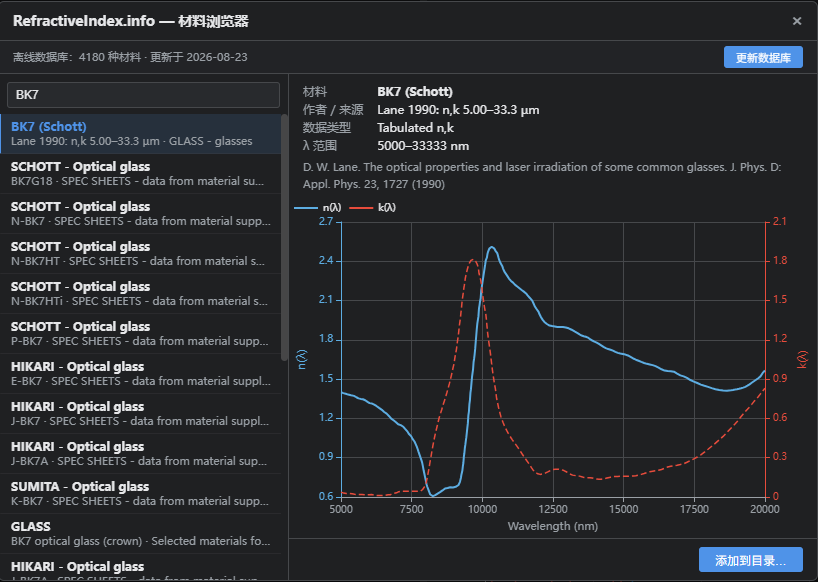
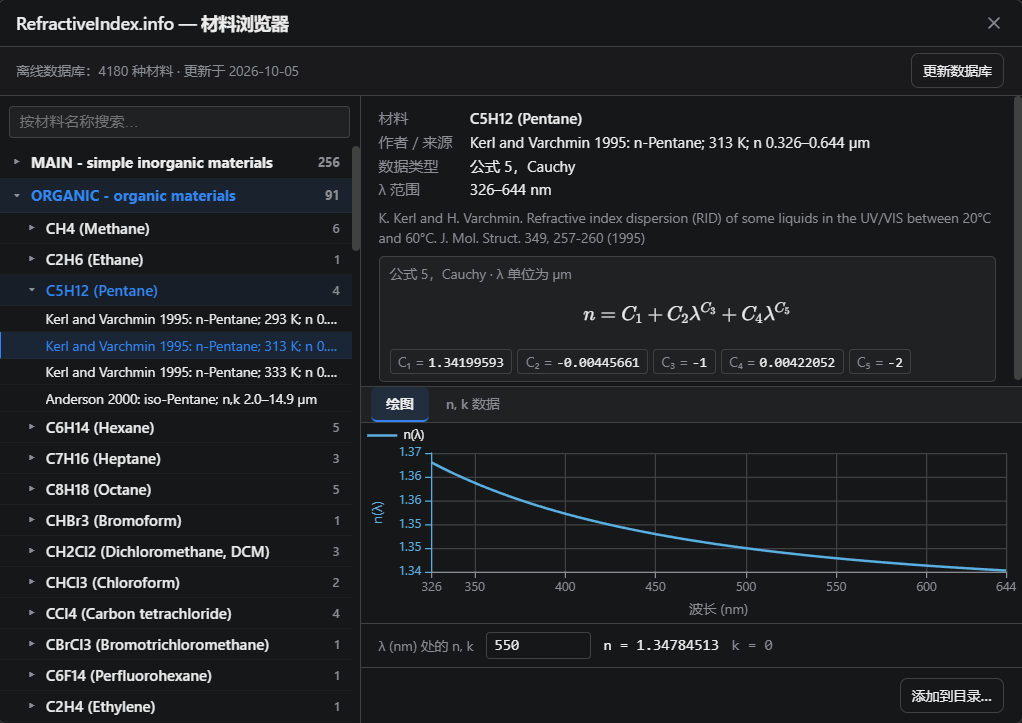
bump version, update readme

diff --git a/README.md b/README.md
@@ -10,7 +10,7 @@
 **An open-source design, analysis, and optimization environment for optical thin-film coatings.**
 
 [![License: MIT](https://img.shields.io/badge/License-MIT-blue.svg)](./LICENSE)
-![Version](https://img.shields.io/badge/version-1.8.4-informational)
+![Version](https://img.shields.io/badge/version-1.8.5-informational)
 [![Downloads](https://img.shields.io/github/downloads/aai2k/TFStudio/total?label=downloads&color=informational)](../../releases)
 ![Platform](https://img.shields.io/badge/platform-Windows%20%7C%20Linux-2ea44f)
 [![Maintainability](https://qlty.sh/gh/aai2k/projects/TFStudio/maintainability.svg)](https://qlty.sh/gh/aai2k/projects/TFStudio)
@@ -39,41 +39,61 @@ TFStudio is a desktop application for designing and analyzing **optical thin-fil
 **Design & evaluation**
 - Transfer-matrix method (TMM) for **absorbing and dispersive** media at **oblique incidence**, both **s- and p-polarization**
 - Full-system modeling: front coating, substrate (with absorption), and back coating, including incoherent substrate multiple reflections
-- Reflectance / transmittance / absorptance spectra, color, integral figures of merit
+- Design the front coating, the back coating or both at once, the back optionally held as the mirror of the front; every window evaluates one side alone or the whole part
+- Averaging over a convergent or divergent illumination cone, with a uniform, Lambertian or tabulated intensity
+- Reflectance / transmittance / absorptance spectra in percent, decibels or optical density, color, integral figures of merit
 - Layer editor with simultaneous physical / optical / quarter-wave / full-wave thickness representations
+- **Stack formula:** build a whole stack from a formula such as `Air | (HL)^4 H | Glass`
+- **Specification:** design requirements as live pass/fail checks, turned into merit-function rows with one button and used as the pass criterion of a Monte Carlo yield run
+- **Coating library:** coatings kept as reusable stacks with their substrate, medium, band and angle, a built-in shelf of starting designs beside your own, placed on either side of a design
 
 **Optimization & synthesis**
-- **Damped least-squares / Levenberg-Marquardt** refinement with an **analytic Jacobian**
-- Additional refiners: Newton, Newton-CG, SQP, conjugate-gradient, differential evolution, simulated annealing
+- Refinement methods: SQP with bounds, damped least squares (Levenberg-Marquardt), conjugate gradient, Newton, Newton-CG, multi-start DLS, differential evolution and simulated annealing, or all of them in turn keeping the best; the gradient methods use an **analytic Jacobian**
 - **Needle** optimization and **gradual evolution** synthesis (automatic layer insertion from scratch)
 - Structural optimization over the layer count itself
+- **Filter design wizard:** multi-cavity Fabry-Perot bandpass and notch prototypes (DWDM, LWDM) built in a few guided steps, at normal or oblique incidence
 - Flexible merit function: spectral targets, ramps, band averages, worst-case operands, thickness constraints
 - Fitting to an imported measured spectrum, as one more row in the merit function
+- **Variator:** sliders on each layer's thickness and on the substrate that every open window follows, and on each material's n and k
+- **Design cleaner:** merges adjacent layers of one material and removes very thin ones, then refines again if asked
 - Multi-threaded via a Web Worker pool; hot kernels accelerated with **WebAssembly**
-<img width="2002" height="1310" alt="ge" src="https://github.com/user-attachments/assets/009e2e48-f11b-4aba-8e6c-3d4e53705b08" />
 
+![A broadband AR target set in the merit function wizard, then Gradual Evolution building an 8-layer coating from a bare substrate](assets/gradual-evolution-bbar.gif)
+
+![A 50 % transmittance target drawn on the plot, then Refinement bringing an 8-layer stack onto it](assets/draw-target-refine.gif)
 
 **Analysis windows**
-- Optical evaluation, admittance diagrams, electric-field profiles, group delay / GDD, ellipsometric parameters, color evaluation, refractive-index profile, layer thickness diagram
+- Optical evaluation, wavelength vs angle maps, admittance diagrams, electric-field profiles, group delay / GDD, dispersion through a bulk material, ellipsometric parameters, color evaluation, refractive-index profile, layer thickness diagram
+- **Plot engine:** custom multi-curve plots, or any quantity mapped over two swept variables as a heatmap or 3D surface
+- **Pulse analysis:** a Gaussian, sech² or super-Gaussian pulse, or a measured spectrum with its phase, reflected off or sent through the coating for any number of bounces, drawn against the Fourier-limited pulse of the same spectrum, with output duration, peak, delay and residual GDD
 - Tolerance & manufacturing analysis: Monte Carlo error analysis, layer sensitivity, inhomogeneity, roughness/scattering, systematic deviations
-<img width="2002" height="1312" alt="analysiswindows" src="https://github.com/user-attachments/assets/ce082aa3-4f18-4908-9247-5d65083db5f4" />
+- **Stress:** per-film stress with its thermal part, the bow it leaves in the substrate, and how close the stack is to cracking or delaminating, from mechanical constants kept on each material; an `STR` merit operand balances the film force for a flat part
+
+![A quarter-wave mirror typed into Stack Formula, then its reflectance over wavelength and angle of incidence as a 3D surface](assets/mirror-angle-map.gif)
 
 **Materials**
-- Built-in library generated from the [refractiveindex.info](https://refractiveindex.info) database (CC0)
-- Sellmeier / Cauchy / tabulated dispersion; complex index with explicit conventions
-- Import of external catalogs and an in-app refractiveindex.info browser
+- Built-in library: Sellmeier glasses written out from their papers and the Schott datasheet, and tabulated films and metals generated from the [refractiveindex.info](https://refractiveindex.info) database (CC0)
+- Dispersion: the Zemax formulas, general Sellmeier and Cauchy, the OptiLayer Schott, Hartmann and Drude forms, the refractiveindex.info formulas, and tabulated n,k; complex index with explicit conventions
+- Import of material catalogs from Zemax AGF, TFCalc, Essential Macleod and OptiLayer files, and an in-app refractiveindex.info browser
+- Ships with the Schott glass catalog, coating and substrate material catalogs, and an offline copy of the refractiveindex.info database, so the browser works without a connection
 
- <img width="1225" height="866" alt="image" src="https://github.com/user-attachments/assets/6fc88e64-7a06-44a3-95bd-352d4c4716ed" />
+![RefractiveIndex.info material browser](assets/screenshot-material.png)
 
 **Measured data**
 - Import of measured R / T / A spectra and of ellipsometric Ψ and Δ, drawn over the calculated curves
+- Reads delimited text in any common layout (PerkinElmer, Shimadzu, Cary and Filmetrics exports among them), JCAMP-DX, and Woollam and Accurion ellipsometer exports
+- **Curve editor:** type, paste or correct a curve's points before it is applied
 - **n,k characterization:** derive a film's index, extinction and thickness from a measured transmittance and reflectance, or from a Ψ and Δ pair, and save the result as a material
+- Fitting a design to a measured Ψ and Δ: the curve becomes merit-function targets for refinement
 - Export of measured or calculated curves in nm, µm or wavenumber, as a fraction or a percentage
 
 **Manufacturing**
 - Deposition / monitoring simulation (broadband and monochromatic optical monitoring)
 - Monitoring worksheet: per-layer monitoring wavelength and witness-chip assignment, with the layers that cannot be terminated closely enough flagged before the run
-- Process exporter and optical-coating data interchange (including Zemax OpticStudio coating export/import)
+- Process exporter
+- Coating exchange with lens design software, both ways: Zemax OpticStudio `COATING.DAT` and CODE V MULTILAYER `.seq` / `.mul`
+- Design import from TFCalc (`.tfd`), Essential Macleod (`.dds`) and OptiLayer (`.dsg`), with materials matched to your catalogs
+- **Report:** a document built from blocks over one or several designs, saved as PDF or a single HTML file
 
 **Platform**
 - Cross-platform desktop app (Electron + React, pure JavaScript)
@@ -89,17 +109,19 @@ Methods and their sources:
 - **Transfer-matrix method:** H. A. Macleod, *Thin-Film Optical Filters*, 5th ed.
 - **Numerical needle synthesis:** Sullivan & Dobrowolski, *Appl. Opt.* **35**, 5484 (1996); Tikhonravov et al., *Appl. Opt.* **35**, 5493 (1996)
 - **Gradual evolution:** Tikhonravov et al. (2007)
+- **Dispersion and pulse propagation:** Birge & Kärtner, *Appl. Opt.* **45**, 1478 (2006)
+- **Film stress, substrate bow and failure criteria:** Klokholm, *IBM J. Res. Dev.* **31**, 585 (1987); Suhir, *J. Appl. Phys.* **88**, 2363 (2000); Klein, *J. Appl. Phys.* **88**, 5487 (2000) and *Opt. Eng.* **40**, 1115 (2001)
 
 All computations are double precision.
 
-The transfer-matrix engine is published separately as **[tmmcore](https://github.com/aai2k/tmmcore)**. Its [comparison page](https://aai2k.github.io/tmmcore/comparison/) measures it against `tmm` (Byrnes), `tmm_fast`, `tmmax` and `tmm_faster` on accuracy and speed, and states the method and its caveats. Reference outputs are committed, so `npm run compare` reproduces the accuracy table with Node alone and no Python.
+The transfer-matrix engine is published separately as **[tmmcore](https://github.com/aai2k/tmmcore)**. Its [comparison page](https://aai2k.github.io/tmmcore/comparison/) measures it against `tmm` (Byrnes), `tmm_fast`, `tmmax` and `tmm_faster` on accuracy and speed, and states the method and its caveats. Reference outputs are committed to that repository, so `npm run compare` there reproduces the accuracy table with Node alone and no Python.
 
 ## Installation
 
 ### Download (recommended)
 Grab the latest build for your platform from the [**Releases**](../../releases) page.
 
-**Windows:** `TFStudio Setup <ver>.exe` installs normally; `TFStudio-<ver>-Portable.exe` is a single executable that needs no installation, for locked-down deposition PCs. Separate Windows 7/8.1 builds are published alongside.
+**Windows:** `TFStudio.Setup.<ver>.exe` installs normally; `TFStudio-<ver>-Portable.exe` is a single executable that needs no installation, for locked-down deposition PCs. Separate Windows 7/8.1 builds are published alongside.
 
 
 **Linux:** On Debian and Ubuntu, `TFStudio-<ver>-amd64.deb` is the recommended package:
@@ -123,7 +145,7 @@ The AppImage does not need `libfuse2`. Where it cannot mount itself at all, as i
 Want to try it first? Run the **[live web demo](https://tfstudio.xyz/demo/)** for example designs and live spectra in the browser, with no installation required.
 
 ### Build from source
-Requires [Node.js](https://nodejs.org) 18+ and git.
+Requires [Node.js](https://nodejs.org) 22.12+ and git.
 
 ```bash
 git clone https://github.com/aai2k/TFStudio.git
@@ -144,8 +166,7 @@ Other useful scripts:
 
 ```bash
 npm test              # run the test suite
-npm run docs:install  # install docs-site deps (needed before docs:dev)
-npm run docs:dev      # preview the documentation site
+npm run docs:dev      # preview the documentation site (installs its deps on first run)
 npm run build         # package a distributable (electron-builder)
 ```
 
@@ -163,7 +184,7 @@ npm run dist -- -Linux        # Linux .deb + AppImage only
 
 The Linux artifacts are produced by `build-release-linux.sh`, which the release
 script drives through WSL; it also runs on any Linux host directly. It needs a
-distribution with Node.js 18+ and `rsync`, and builds in the Linux filesystem
+distribution with Node.js 22.12+ and `rsync`, and builds in the Linux filesystem
 rather than in place, so a Windows checkout keeps its Windows `node_modules`.
 The Windows-driven WSL build skips GUI verification. A direct Linux build launches
 the unpacked application under Xvfb as a smoke test, or skips it with a message if

diff --git a/ROADMAP.md b/ROADMAP.md
@@ -8,12 +8,11 @@ If something here matters to your work, or something you need is missing, open a
 
 ## Next
 
-- **Pulse Analysis.** Propagate Gaussian, sech-squared or measured pulses through a coating and show temporal broadening, spectral phase and residual chirp.
-
+a non-polarizing edge filter tool (give the edge wavelength, the angle and two materials, get a stack whose s and p edges coincide), evaluating a system built from several coated parts, rugate and graded-index synthesis, laser damage threshold estimation, and glazing U and g values
 
 ## After that
 
-rugate and graded-index synthesis, laser damage threshold estimation, optimizing across multiple environments at once, glazing U and g values, and CODE V sequence export
+optimizing across multiple environments at once
 
 ## Under consideration
 
